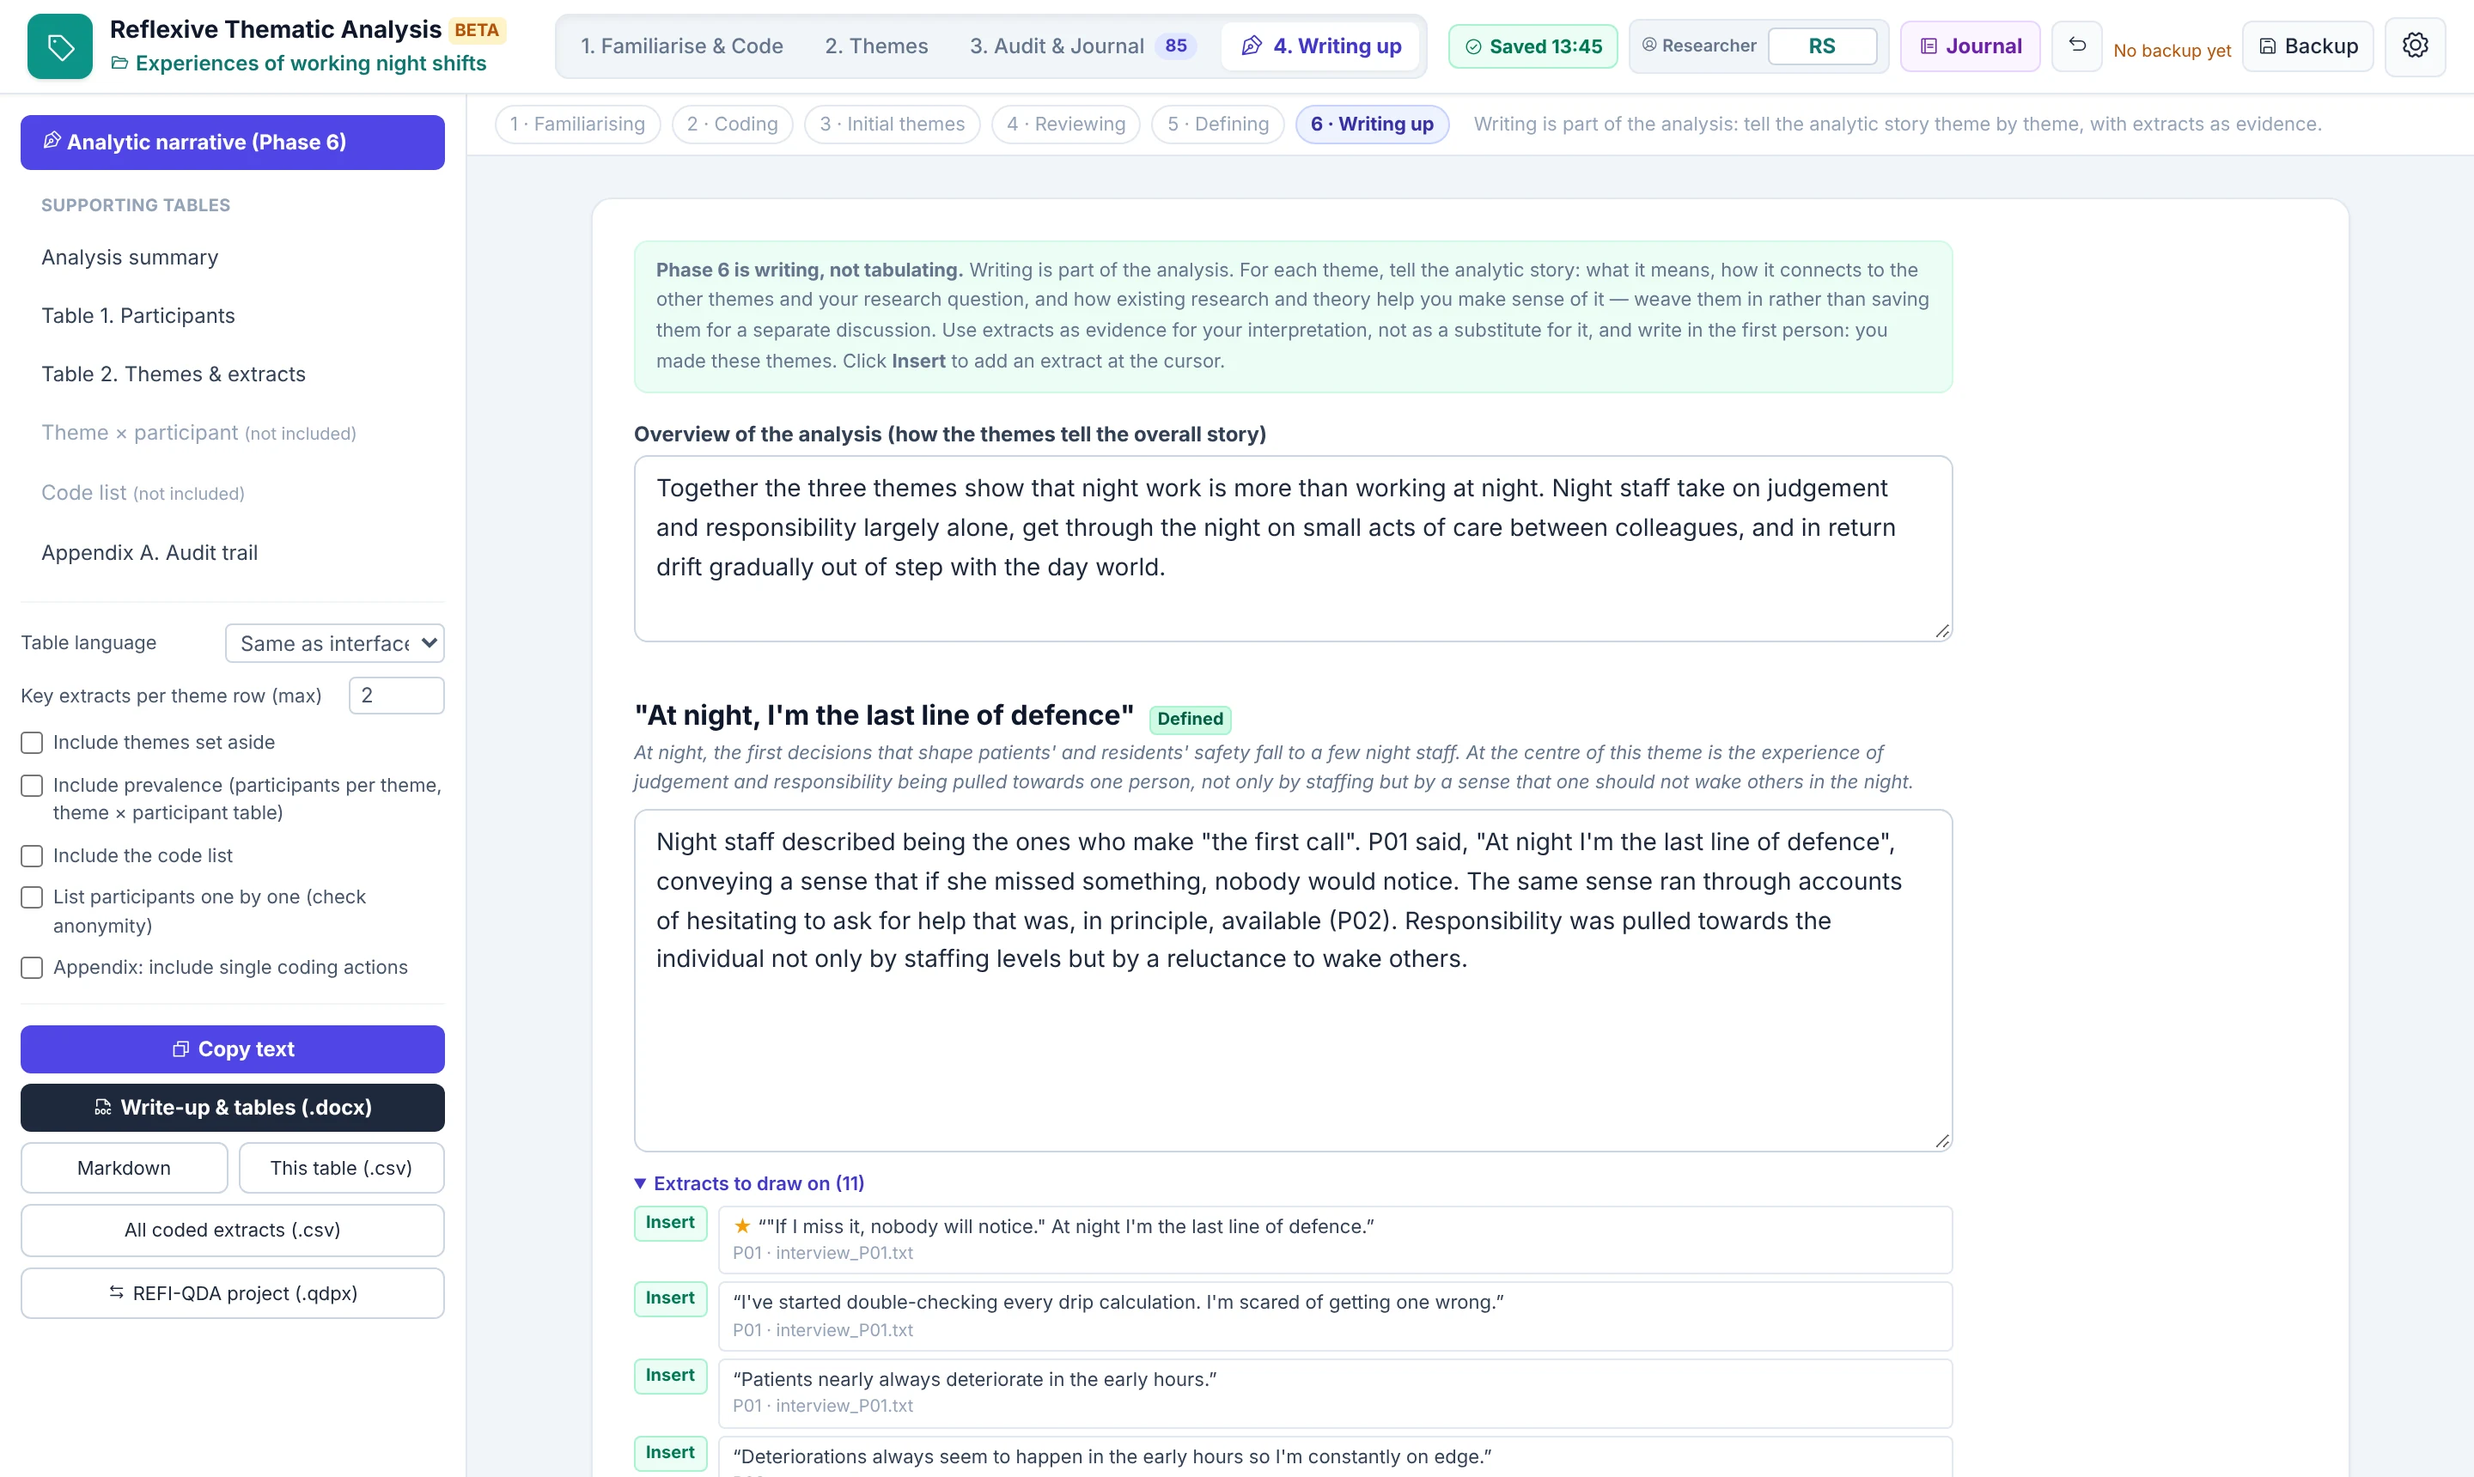
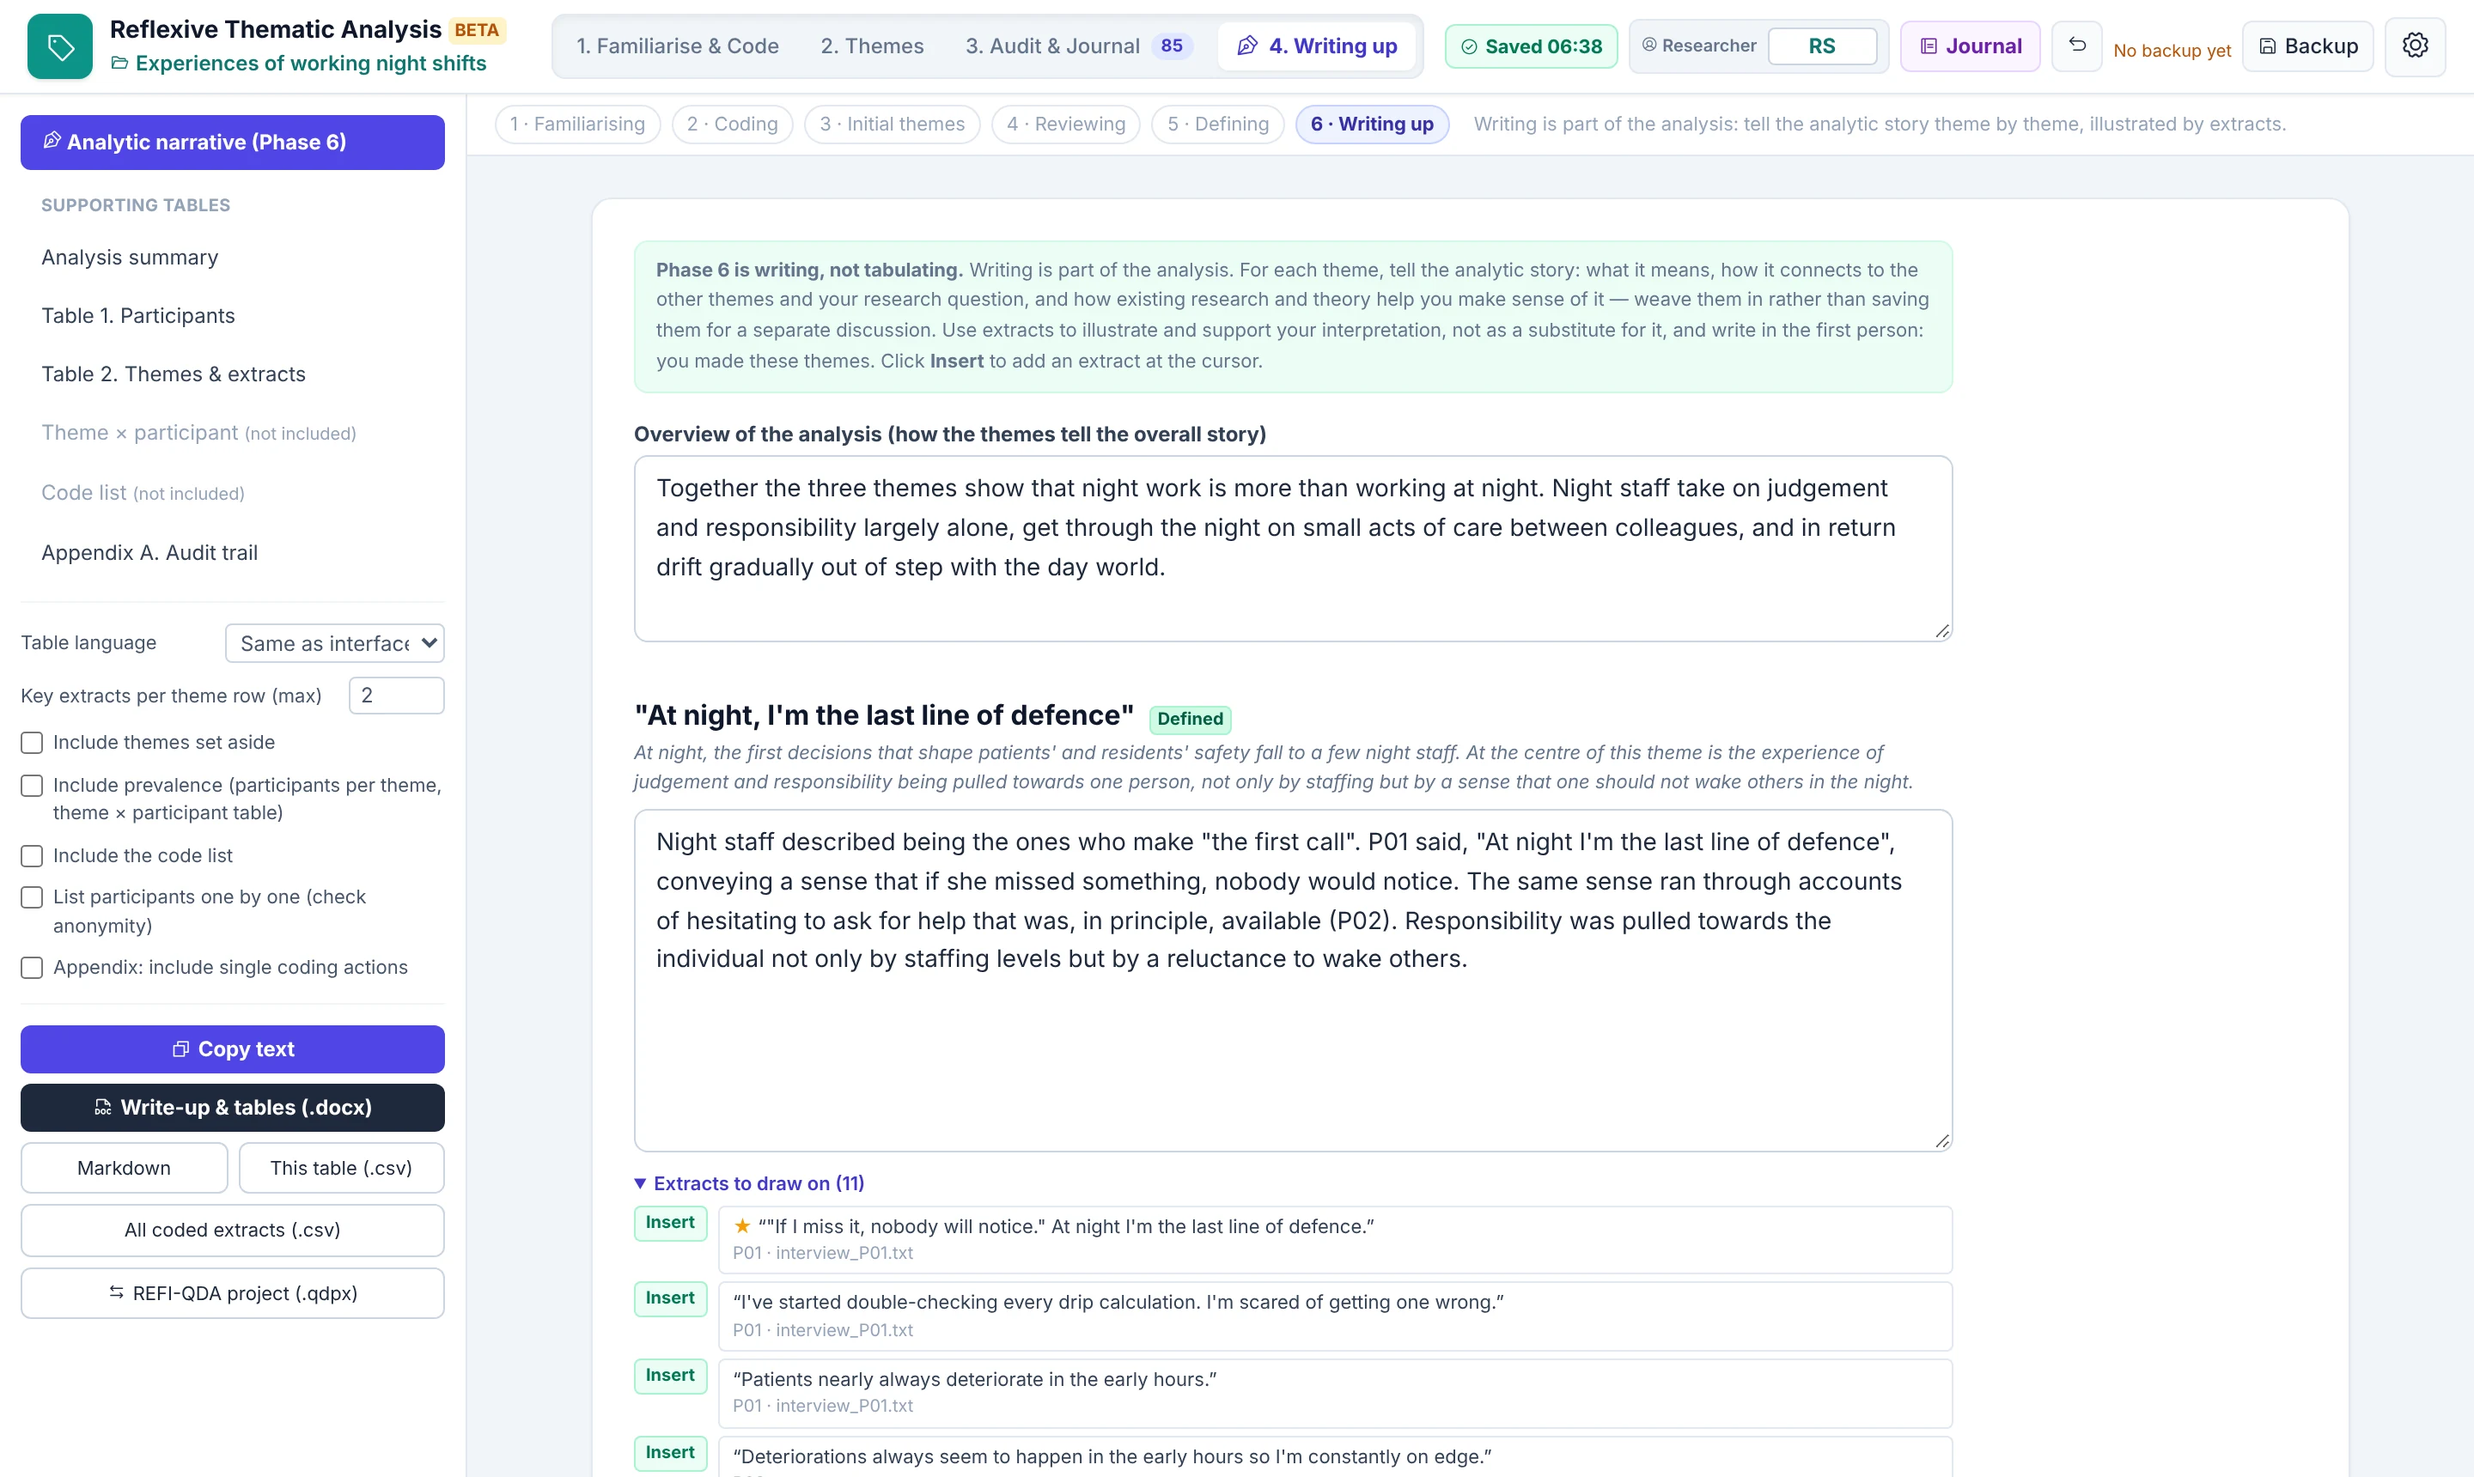
Wording read-through: extracts illustrate and support the interpretation
- UI (en/ja): phase 6 hint and the narrative intro no longer present
  extracts as "evidence" (解釈の根拠); they illustrate and support the
  researcher's interpretation (Braun & Clarke).
- Site landing (en) and README: the same wording.
- 101 (ja), phase 4: the second review question matches the app and the
  English page ("does the theme capture something meaningful across the
  whole dataset", not "capture the whole dataset").
- Screenshots regenerated (tools/site-screenshots.cjs now honours
  CHROMIUM_PATH like the tests).

The rest of the interface, site, README and RTARG mapping was read against
the CLAUDE.md wording table: the remaining uses of agreement, codebook,
bias, prevalence and accuracy say what the app does not do and why.

Claude-Session: https://claude.ai/code/session_01T9KsJ4SC3G3LhD6zhcoF8x

diff --git a/app/js/i18n.js b/app/js/i18n.js
@@ -197,7 +197,7 @@ I18N.en = {
   'exp.d.from': 'From', 'exp.d.to': 'To', 'exp.d.removedEntry': '(removed entry)',
   'csv.document': 'Document', 'csv.participant': 'Participant', 'csv.code': 'Code', 'csv.themes': 'Theme(s)', 'csv.extract': 'Extract', 'csv.key': 'Key extract',
   'csv.memo': 'Memo', 'csv.start': 'Start', 'csv.end': 'End', 'csv.codedBy': 'Coded by', 'csv.codedAt': 'Coded at', 'csv.yes': 'yes',
-  'phase.hint6': 'Writing is part of the analysis: tell the analytic story theme by theme, with extracts as evidence.',
+  'phase.hint6': 'Writing is part of the analysis: tell the analytic story theme by theme, illustrated by extracts.',
   'counts.show': 'Show counts',
   'counts.hide': 'Hide counts',
   'counts.title': 'Numbers of extracts and participants. In reflexive TA, how often something appears does not decide what matters, so counts are hidden by default.',
@@ -214,7 +214,7 @@ I18N.en = {
   'exp.codelist.title': 'Code list (analytic record)',
   'exp.codelist.note': 'In reflexive TA, codes are analytic tools that evolve during the analysis rather than a fixed codebook; this list records where the analysis ended.',
   'toast.textCopied': 'Text copied — paste into Word or Google Docs',
-  'narr.intro': '<b>Phase 6 is writing, not tabulating.</b> Writing is part of the analysis. For each theme, tell the analytic story: what it means, how it connects to the other themes and your research question, and how existing research and theory help you make sense of it — weave them in rather than saving them for a separate discussion. Use extracts as evidence for your interpretation, not as a substitute for it, and write in the first person: you made these themes. Click <b>Insert</b> to add an extract at the cursor.',
+  'narr.intro': '<b>Phase 6 is writing, not tabulating.</b> Writing is part of the analysis. For each theme, tell the analytic story: what it means, how it connects to the other themes and your research question, and how existing research and theory help you make sense of it — weave them in rather than saving them for a separate discussion. Use extracts to illustrate and support your interpretation, not as a substitute for it, and write in the first person: you made these themes. Click <b>Insert</b> to add an extract at the cursor.',
   'narr.overview': 'Overview of the analysis (how the themes tell the overall story)',
   'narr.overviewPh': 'The overall story the themes tell together, in relation to your research question…',
   'narr.themePh': 'Analytic narrative for this theme: what it captures and its central organising concept, how the extracts show it, how it relates to the other themes, and what existing research or theory adds…',
@@ -491,7 +491,7 @@ I18N.ja = {
   'exp.codelist.title': 'コード一覧（分析の記録）',
   'exp.codelist.note': '再帰的テーマ分析のコードは、固定したコードブックではなく分析の途中で変わる道具です。この一覧は分析を終えた時点の記録です。',
   'toast.textCopied': '文章をコピーしました — Word や Google ドキュメントに貼り付けられます',
-  'narr.intro': '<b>フェーズ6は表を作ることではなく、書くことです。</b>書くこと自体が分析の一部です。テーマごとに、それが何を意味し、他のテーマやリサーチクエスチョンとどうつながるか、既存の研究や理論がその理解にどう役立つかという分析的な記述を書いてください。研究や理論は、別の「考察」に回さず記述の中に織り込みます。抜粋は解釈の代わりではなく解釈の根拠として使い、テーマを作ったのは自分なので一人称で書きましょう。<b>挿入</b>を押すと、カーソルの位置に抜粋が入ります。',
+  'narr.intro': '<b>フェーズ6は表を作ることではなく、書くことです。</b>書くこと自体が分析の一部です。テーマごとに、それが何を意味し、他のテーマやリサーチクエスチョンとどうつながるか、既存の研究や理論がその理解にどう役立つかという分析的な記述を書いてください。研究や理論は、別の「考察」に回さず記述の中に織り込みます。抜粋は解釈の代わりではなく、解釈を示し支えるものとして使い、テーマを作ったのは自分なので一人称で書きましょう。<b>挿入</b>を押すと、カーソルの位置に抜粋が入ります。',
   'narr.overview': '分析の全体像（テーマが全体として語る物語）',
   'narr.overviewPh': 'リサーチクエスチョンに照らして、テーマ全体がどんな物語を語るか…',
   'narr.themePh': 'このテーマの分析の記述：何を捉えているか、テーマの核となる意味（中心概念）、抜粋がそれをどう示すか、他のテーマとの関係、既存の研究や理論から何が言えるか…',

diff --git a/site/en/index.html b/site/en/index.html
@@ -68,7 +68,7 @@
         <div class="step"><span class="tab">Tab 1</span><h3>Familiarise &amp; Code</h3><p>Phases 1–2. Import transcripts and survey answers, read, make notes and code. Full-text search, speakers and extract ranges live here too.</p></div>
         <div class="step"><span class="tab">Tab 2</span><h3>Themes</h3><p>Phases 3–5. Gather codes into themes, review them against the data, define and name them, and map how they relate.</p></div>
         <div class="step"><span class="tab">Tab 3</span><h3>Audit &amp; Journal</h3><p>What changed, when and why, next to your reflexive journal, with the theme structure saved at each entry.</p></div>
-        <div class="step"><span class="tab">Tab 4</span><h3>Writing up</h3><p>Phase 6. Tell the analytic story theme by theme, inserting extracts as evidence. Tables and the appendix support it.</p></div>
+        <div class="step"><span class="tab">Tab 4</span><h3>Writing up</h3><p>Phase 6. Tell the analytic story theme by theme, weaving in extracts that illustrate and support your interpretation. Tables and the appendix support it.</p></div>
       </div>
       <figure>
         <img src="../assets/img/en/themes.webp" width="1440" height="860" loading="lazy" alt="The Themes tab: theme cards with a status (Candidate, Reviewed, Defined) holding codes; the code pool on the left.">

diff --git a/site/ja/101.html b/site/ja/101.html
@@ -227,7 +227,7 @@
     <!-- 6 -->
     <h2 id="s6"><span class="num">6</span>フェーズ4：テーマの見直し<span class="time">5分</span></h2>
     <span class="phase-tag">タブ2 · テーマ</span>
-    <p>候補テーマを、2つの水準でデータと照らし合わせます。1つは「そのテーマのコーディングした抜粋が、まとまっているか」、もう1つは「そのテーマがデータ全体を捉えているか」です。</p>
+    <p>候補テーマを、2つの水準でデータと照らし合わせます。1つは「そのテーマのコーディングした抜粋が、まとまっているか」、もう1つは「データ全体に戻ったとき、そのテーマが意味のあるものを捉えているか」です。</p>
     <div class="box try">
       <div class="box-title">✋ やってみよう</div>
       <ol>

diff --git a/README.md b/README.md
@@ -36,7 +36,7 @@
 3. **Audit & Journal**
    Every interpretive change (codes created, renamed, merged or deleted; theme changes; status, definitions) is logged automatically, next to a timestamped reflexive journal.
 4. **Writing up (Phase 6)**
-   Writing is part of the analysis, so the first view is a writing space: an overview of the analysis and an analytic narrative for each theme and subtheme, with the theme's extracts at hand to insert as evidence. Supporting tables follow:
+   Writing is part of the analysis, so the first view is a writing space: an overview of the analysis and an analytic narrative for each theme and subtheme, with the theme's extracts at hand to illustrate and support your interpretation. Supporting tables follow:
    * Analysis summary, participants, and themes with definitions and illustrative extracts
    * Optional, off by default: prevalence (participants per theme, theme × participant) and the code list
    * Appendix A: audit trail and reflexive journal
